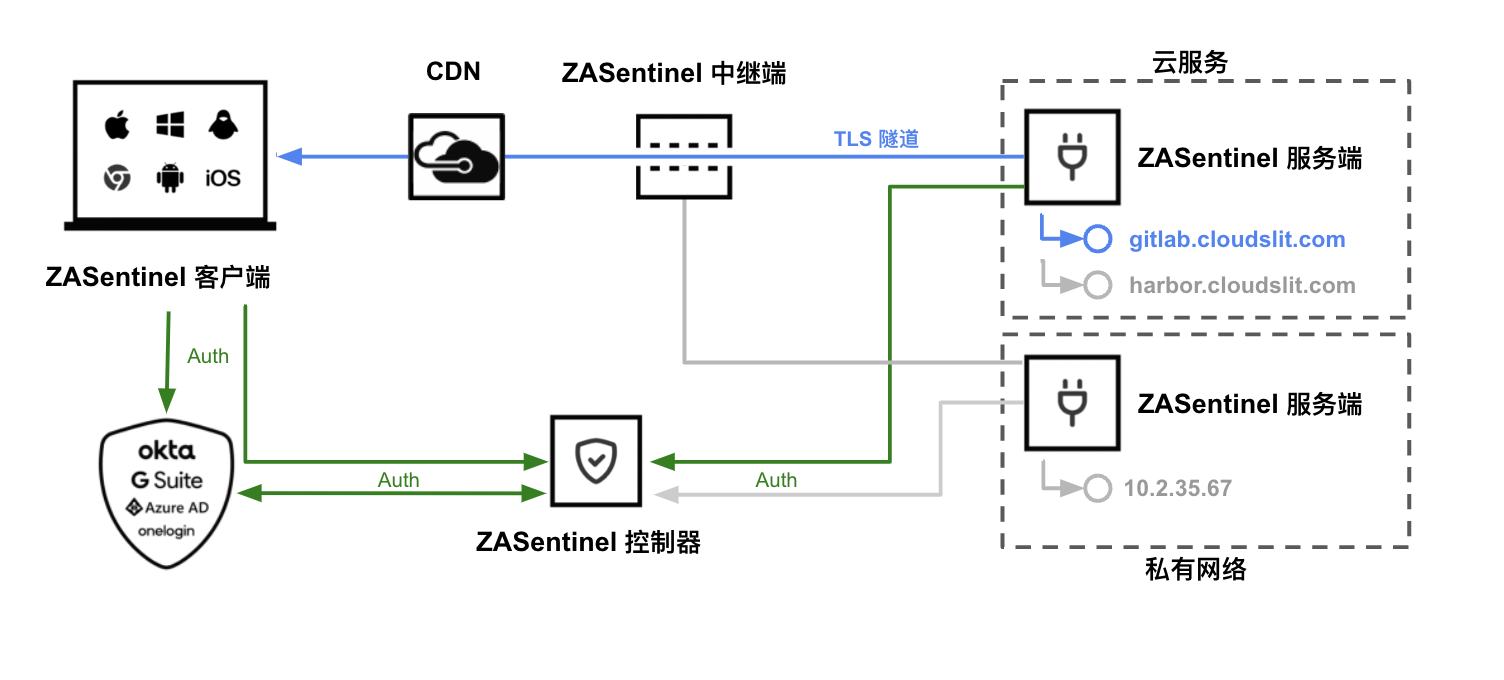
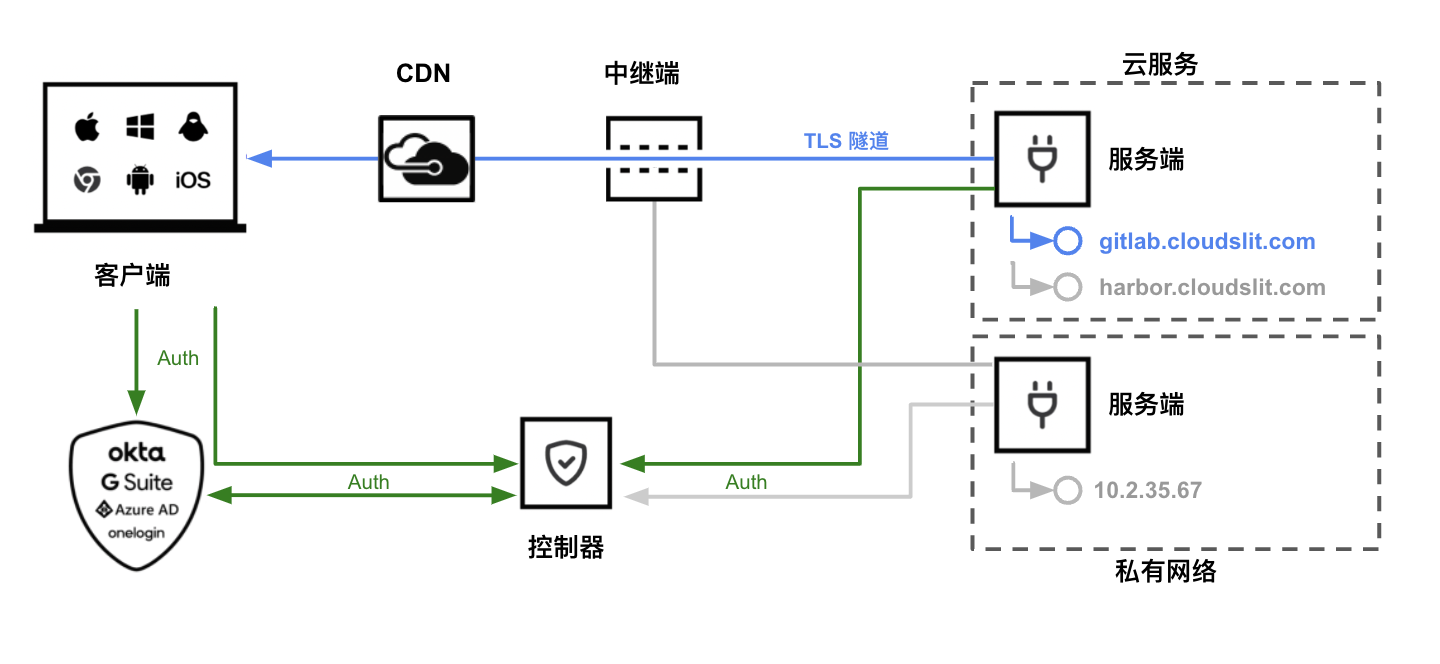
feat: zero access whitepaper

diff --git a/ZeroAccess/README.md b/ZeroAccess/README.md
@@ -1,14 +1,14 @@
-# ZASentinel white paper
+# ZeroAccess white paper
 
 
 
-## Thank you for your interest in ZASentinel
+## Thank you for your interest in ZeroAccess
 
-ZASentinel helps organizations improve information security by providing a better and simpler way to protect access to private network resources and applications.
+ZeroAccess helps organizations improve information security by providing a better and simpler way to protect access to private network resources and applications.
 
-The information contained in this document is intended to provide customers and potential customers with transparency and confidence about the security situation, practices and processes of ZASentinel. Although this document represents the security of ZASentinel when it was last updated, ensuring information security is a process of continuous improvement, and we will not stop the evaluation and support.
+The information contained in this document is intended to provide customers and potential customers with transparency and confidence about the security situation, practices and processes of ZeroAccess. Although this document represents the security of ZeroAccess when it was last updated, ensuring information security is a process of continuous improvement, and we will not stop the evaluation and support.
 
-This document is divided into two main parts. The first part describes the security architecture of ZASentinel from the perspective of products, and the second part describes the general information security practices of ZASentinel.
+This document is divided into two main parts. The first part describes the security architecture of ZeroAccess from the perspective of products, and the second part describes the general information security practices of ZeroAccess.
 
 ## Product safety
 
@@ -16,28 +16,28 @@ This document is divided into two main parts. The first part describes the secur
 
 #### Overview of Methods
 
-ZASentinel was originally designed to provide a safe solution for modern "working anywhere" employees. Modern labor force is increasingly dispersed:
+ZeroAccess was originally designed to provide a safe solution for modern "working anywhere" employees. Modern labor force is increasingly dispersed:
 
 - More and more users work at home and in remote locations such as public places;
 - User devices are scattered among desktop and mobile devices, devices for job posting and personal devices;
 - The application is being migrated from inside to the cloud or provided by a third-party SaaS provider;
 - Networks are increasingly cloud-based or managed by third parties.
 
-Therefore, the traditional fixed boundary method based on IP address can't meet today's security or availability requirements. ZASentinel's answer is a method based on the concept of zero trust access, which we call identity first network.
+Therefore, the traditional fixed boundary method based on IP address can't meet today's security or availability requirements. ZeroAccess's answer is a method based on the concept of zero trust access, which we call identity first network.
 
 #### Identity first network
 
-The premise behind ZASentinel's identity first network model is to rethink the basic assumptions of the network to meet the needs of modern labor force. The dispersion and abstraction of users, devices, applications and networks (for example, through infrastructure such as Terraform, that is, code framework) means that different methods are needed.
+The premise behind ZeroAccess's identity first network model is to rethink the basic assumptions of the network to meet the needs of modern labor force. The dispersion and abstraction of users, devices, applications and networks (for example, through infrastructure such as Terraform, that is, code framework) means that different methods are needed.
 
 Our identity-first approach starts with asking a simple question: Should network requests be allowed to leave the device? And if so, whose identity should it be attached to? Because there is no clearly authorized identity, the network connection is never allowed to enter your network, so there is no longer the question of who the network connection belongs to and why it is authorized.
 
 This connection between network request initiation and identity makes it very easy to understand the activities inside the network. Gone are the days of whitelisting IP addresses,
 
-Maintain complex subnet assignments and VLAN segments, or manually piece together network events across physical networks. With ZASentinel, you can provide users with the flexibility they need to work anywhere, while maintaining confidence that every network connection is authorized and audited according to the user's identity.
+Maintain complex subnet assignments and VLAN segments, or manually piece together network events across physical networks. With ZeroAccess, you can provide users with the flexibility they need to work anywhere, while maintaining confidence that every network connection is authorized and audited according to the user's identity.
 
 #### Zero Trust Access (ZTA)
 
-ZASentinel's architecture is designed according to ZTA's main philosophy:
+ZeroAccess's architecture is designed according to ZTA's main philosophy:
 
 - Every request for private resources should be authenticated and authorized based on real-time context information, such as user identity, device status and other attributes such as time and location.
 - Users should only have access to the minimum necessary resources (principle of least privilege).
@@ -45,17 +45,17 @@ ZASentinel's architecture is designed according to ZTA's main philosophy:
 
 Generally speaking, these principles are embodied in our products in the following ways:
 
-- No ZASentinel component can independently decide to allow traffic to flow to secure resources on remote networks. And user data flow authorization is always confirmed by running multiple checks by multiple components. In addition, the user data flow and the user authentication flow are handled by separate components and require separate authentication checks.
+- No ZeroAccess component can independently decide to allow traffic to flow to secure resources on remote networks. And user data flow authorization is always confirmed by running multiple checks by multiple components. In addition, the user data flow and the user authentication flow are handled by separate components and require separate authentication checks.
 - We entrust user authentication to a third-party authentication provider, which creates a separation of concerns and provides an additional layer of security.
 - We support extensive logging, provide enhanced visibility, and help administrators monitor, troubleshoot, and investigate the activities of the entire network and terminals, including unauthorized activities, as well as those of individuals who are authorized to access resources but may exceed their business authority.
-- User data streams from the client to the server are encrypted end-to-end. Even though they can pass through relays (components residing in the infrastructure controlled by ZASentinel), ZASentinel cannot decrypt such data. (Encrypted transmission will never have intermediate termination/recovery on the relay. )
+- User data streams from the client to the server are encrypted end-to-end. Even though they can pass through relays (components residing in the infrastructure controlled by ZeroAccess), ZeroAccess cannot decrypt such data. (Encrypted transmission will never have intermediate termination/recovery on the relay. )
 - Our client-relay-server, all components communicate with each other by upgrading to websocket protocol, which better supports the transfer of custom parameters and facilitates the verification of data security and legality.
-- Our relay is mounted under the CDN network, which can effectively prevent DDOS attacks, and better optimize network lines to improve access speed. The network CDN supports Websocket protocol and seamlessly integrates with ZASentinel network.
+- Our relay is mounted under the CDN network, which can effectively prevent DDOS attacks, and better optimize network lines to improve access speed. The network CDN supports Websocket protocol and seamlessly integrates with ZeroAccess network.
 - Our client application is designed to always run in the background.
 
 From the customer's point of view, our product architecture provides additional security advantages in the following aspects:
 
-- Hide the network -ZASentinel will not publicly expose the access point to your network to promote secure remote access to resources inside the network. This means that, if necessary, the customer network can remain invisible to the public Internet, and it will not be explored by potential attackers.
+- Hide the network -ZeroAccess will not publicly expose the access point to your network to promote secure remote access to resources inside the network. This means that, if necessary, the customer network can remain invisible to the public Internet, and it will not be explored by potential attackers.
 - Support granular access control at port level -Compared with VPN that provides access to the whole network, this helps to reduce the explosion radius of intrusion.
 - Centralized access management for all private resources  -This helps IT team to audit and maintain access list to cope with personnel changes.
 - Record all network activities centrally -Identity index log and analysis can provide insight into who is doing what in the whole enterprise network.
@@ -65,18 +65,18 @@ From the customer's point of view, our product architecture provides additional 
 
 #### Architecture & Component Overview
 
-This section provides a high-level overview of the main components that make up the ZASentinel architecture and how they interact. The architecture of ZASentinel is in our document, and we strongly recommend that you read this article in order to have a more comprehensive understanding of the security foundation of ZASentinel.
+This section provides a high-level overview of the main components that make up the ZeroAccess architecture and how they interact. The architecture of ZeroAccess is in our document, and we strongly recommend that you read this article in order to have a more comprehensive understanding of the security foundation of ZeroAccess.
 
 ![en-1](./images/en-1.png)
 
-ZASentinel protects access to customers' remote network resources. ZASentinel consists of four main components, which together ensure that only authenticated users can access the resources they have access to. After ZASentinel is fully configured, the end result is that authorized users can connect to any resource without knowing the underlying network configuration or even which remote network the resource resides on. The four main components are:
+ZeroAccess protects access to customers' remote network resources. ZeroAccess consists of four main components, which together ensure that only authenticated users can access the resources they have access to. After ZeroAccess is fully configured, the end result is that authorized users can connect to any resource without knowing the underlying network configuration or even which remote network the resource resides on. The four main components are:
 
-- Controller-central coordination component of -ZASentinel. The controller is a multi-tenant component operated by ZASentinel. It performs a number of duties, including storing the client configuration information management console managed based on web to register and verify the server, issuing the signature authorization to the client that successfully sends the connection request, entrusting the user authentication to the identity provider, and distributing the signed access control list to the client and the server.
-- Client-A software application installed on the end user's device. For users' requests for protected resources, the client acts as a combined authentication and authorization agent through ZASentinel. Routing and authorization decisions take place at the edge of the client.
+- Controller-central coordination component of -ZeroAccess. The controller is a multi-tenant component operated by ZeroAccess. It performs a number of duties, including storing the client configuration information management console managed based on web to register and verify the server, issuing the signature authorization to the client that successfully sends the connection request, entrusting the user authentication to the identity provider, and distributing the signed access control list to the client and the server.
+- Client-A software application installed on the end user's device. For users' requests for protected resources, the client acts as a combined authentication and authorization agent through ZeroAccess. Routing and authorization decisions take place at the edge of the client.
 - Server-A software component designed to be deployed on a device behind a remote network firewall. The server only starts the outbound connection with the controller and relay, and establishes communication with the client through these connections.
-- Relay-geographically distributed components operated by ZASentinel. The relay serves as the registration point of the server and the connection point of the client wishing to establish a connection to the server. The relay is mounted under the CDN network to resist DDOS attacks.
+- Relay-geographically distributed components operated by ZeroAccess. The relay serves as the registration point of the server and the connection point of the client wishing to establish a connection to the server. The relay is mounted under the CDN network to resist DDOS attacks.
 
-Client and server components are located on the equipment and infrastructure controlled by customers, while controller and relay components are located in the infrastructure controlled by ZASentinel.
+Client and server components are located on the equipment and infrastructure controlled by customers, while controller and relay components are located in the infrastructure controlled by ZeroAccess.
 
 The following diagram illustrates how various components exchange information in a secure way, so as to connect from the client to a specific resource on a remote network:
 
@@ -112,49 +112,49 @@ The relay is mounted on the CDN network, and the CDN supports websocket protocol
 
 #### What customer data do we process?
 
-The main types of customer data processed by ZASentinel are:
+The main types of customer data processed by ZeroAccess are:
 
-- User details (such as email addresses, names and group members, but not passwords, as ZASentinel entrusts authentication to a third-party identity provider);
+- User details (such as email addresses, names and group members, but not passwords, as ZeroAccess entrusts authentication to a third-party identity provider);
 - Infrastructure information (such as network details, resource details and access control list);
-- Logs (such as crash and error reports for diagnosis and troubleshooting). The ZASentinel component also records events that allow customers to monitor user activities (for example, user login and token requests).
+- Logs (such as crash and error reports for diagnosis and troubleshooting). The ZeroAccess component also records events that allow customers to monitor user activities (for example, user login and token requests).
 
-User network traffic destined for resources protected by ZASentinel can be transmitted through ZASentinel relay in encrypted form. This traffic carrying data is relayed on an instantaneous basis. The relay does not store traffic or any network identifiable information.
+User network traffic destined for resources protected by ZeroAccess can be transmitted through ZeroAccess relay in encrypted form. This traffic carrying data is relayed on an instantaneous basis. The relay does not store traffic or any network identifiable information.
 
-ZASentinel can also process customer data submitted by customers related to customer support requests. This may include configuration data, error logs, and other information that customers decide to provide to ZASentinel for reporting and diagnosing technical problems.
+ZeroAccess can also process customer data submitted by customers related to customer support requests. This may include configuration data, error logs, and other information that customers decide to provide to ZeroAccess for reporting and diagnosing technical problems.
 
 #### data separation
 
-Customer data is logically isolated in ZASentinel's system according to customer tenant ID.
+Customer data is logically isolated in ZeroAccess's system according to customer tenant ID.
 
 #### Data confidentiality
 
-According to our contract with customers, ZASentinel regards customer data as confidential information of customers, and the ownership of customer data is reserved by customers.
+According to our contract with customers, ZeroAccess regards customer data as confidential information of customers, and the ownership of customer data is reserved by customers.
 
 ### 1.3 Product performance and scalability
 
 Service reliability is the core aspect of information security. This section describes service reliability related to performance and scalability. For information on service reliability in terms of availability, please see the following infrastructure & physical security.
 
-We have designed our infrastructure and software to ensure that ZASentinel performs well, even when the usage of individual customers or our entire customer base increases. The main ways for us to achieve this goal include:
+We have designed our infrastructure and software to ensure that ZeroAccess performs well, even when the usage of individual customers or our entire customer base increases. The main ways for us to achieve this goal include:
 
-- Eliminate the backhaul/trombone problem-the traffic routed through ZASentinel takes a more direct route, instead of routing all traffic through a central gateway geographically far from the start and end points, thus reducing the delay of users and the bandwidth usage of organizations. ZASentinel clients automatically and intelligently connect to ZASentinel controllers and relays, which provide the best performance according to the physical location of users at that time and the resources they need to connect to.
-- Support split tunnel-Any user traffic that the organization chooses not to route through ZASentinel will completely bypass ZASentinel and be handled by user equipment independently. This reduces unnecessary traffic sent through additional hops.
-- Load balancing-Zasentinel handles multiple levels of load balancing. The controllers and relays of ZASentinel are distributed in different places and geographical areas. As part of infrastructure planning, our goal is to allocate them strategically to reduce delays and provide load balancing in areas where expected traffic loads are high. For example, in high-traffic areas, we can add additional controllers and relays, and balance the load among them. By using the same IaaS provider hosting controller and relay used by customers (for example, in Alibaba Cloud, Huawei Cloud and GCP), the delay is further reduced. On the client side, customers can install multiple servers in the same remote network, and ZASentinel will automatically handle the load balance between the servers to meet the access request of a specific network.
-- Handling extensions for customers-The traditional network access security model requires organizations to deploy and maintain their own security infrastructure, such as VPN gateways. Expanding the scale will increase the management cost disproportionately and occupy the resources that can be used for other plans. ZASentinel alleviates IT departments' concerns about expansion.
-- Distributed authorization processing-the authorization processing workload is distributed, such as at the ZASentinel client level, which helps to improve the overall performance, instead of being concentrated in one place.
+- Eliminate the backhaul/trombone problem-the traffic routed through ZeroAccess takes a more direct route, instead of routing all traffic through a central gateway geographically far from the start and end points, thus reducing the delay of users and the bandwidth usage of organizations. ZeroAccess clients automatically and intelligently connect to ZeroAccess controllers and relays, which provide the best performance according to the physical location of users at that time and the resources they need to connect to.
+- Support split tunnel-Any user traffic that the organization chooses not to route through ZeroAccess will completely bypass ZeroAccess and be handled by user equipment independently. This reduces unnecessary traffic sent through additional hops.
+- Load balancing-ZeroAccess handles multiple levels of load balancing. The controllers and relays of ZeroAccess are distributed in different places and geographical areas. As part of infrastructure planning, our goal is to allocate them strategically to reduce delays and provide load balancing in areas where expected traffic loads are high. For example, in high-traffic areas, we can add additional controllers and relays, and balance the load among them. By using the same IaaS provider hosting controller and relay used by customers (for example, in Alibaba Cloud, Huawei Cloud and GCP), the delay is further reduced. On the client side, customers can install multiple servers in the same remote network, and ZeroAccess will automatically handle the load balance between the servers to meet the access request of a specific network.
+- Handling extensions for customers-The traditional network access security model requires organizations to deploy and maintain their own security infrastructure, such as VPN gateways. Expanding the scale will increase the management cost disproportionately and occupy the resources that can be used for other plans. ZeroAccess alleviates IT departments' concerns about expansion.
+- Distributed authorization processing-the authorization processing workload is distributed, such as at the ZeroAccess client level, which helps to improve the overall performance, instead of being concentrated in one place.
 
 ## Information security plan
 
 ### 2.1 Overview
 
-This section contains a summary of ZASentinel's information security plan. ZASentinel keeps a set of written information security plans, policies and procedures. These plans, policies and procedures are reviewed at least once a year and supplemented by regular risk reviews, which will be incorporated into the continuous development of our information security plan.
+This section contains a summary of ZeroAccess's information security plan. ZeroAccess keeps a set of written information security plans, policies and procedures. These plans, policies and procedures are reviewed at least once a year and supplemented by regular risk reviews, which will be incorporated into the continuous development of our information security plan.
 
 ### 2.2 Management and organizational security
 
 #### Governance & Responsibility
 
-The chief technology officer of ZASentinel is mainly responsible for ZASentinel's information security plan. ZASentinel also has an interdisciplinary security team, which is responsible for implementing, reviewing and maintaining its information security plan. Its members include senior managers.
+The chief technology officer of ZeroAccess is mainly responsible for ZeroAccess's information security plan. ZeroAccess also has an interdisciplinary security team, which is responsible for implementing, reviewing and maintaining its information security plan. Its members include senior managers.
 
-However, as a safety project, ZASentinel believes that safety is a universal problem, so it is the common responsibility of our whole organization. For example, all our engineers are required to regard safety as a basic part of their work, and they will not simply delegate all responsibilities to other colleagues who are more concerned about safety.
+However, as a safety project, ZeroAccess believes that safety is a universal problem, so it is the common responsibility of our whole organization. For example, all our engineers are required to regard safety as a basic part of their work, and they will not simply delegate all responsibilities to other colleagues who are more concerned about safety.
 
 ### 2.3 Application Security
 
@@ -164,7 +164,7 @@ However, as a safety project, ZASentinel believes that safety is a universal pro
 
 We provide users with access to the system according to the user role and the principle of least privilege.
 
-Use ZASentinel to protect access to private network resources in production and other environments. Authentication is performed by our identity provider's single sign-on system, and multi-factor authentication is enabled. With ZASentinel, we can also finely control user access rights at the resource level (instead of the network level) according to the principle of minimum rights, and apply different security policies according to the authentication of users, devices and the context requesting access.
+Use ZeroAccess to protect access to private network resources in production and other environments. Authentication is performed by our identity provider's single sign-on system, and multi-factor authentication is enabled. With ZeroAccess, we can also finely control user access rights at the resource level (instead of the network level) according to the principle of minimum rights, and apply different security policies according to the authentication of users, devices and the context requesting access.
 
 Enterprise applications use SSO and MFA for authentication as much as possible, and enforce minimum password complexity requirements.
 
@@ -172,13 +172,13 @@ We also automate the deployment process of the production environment, which mea
 
 ##### Access monitoring
 
-We use ZASentinel and other log systems to monitor access to various systems and all aspects of ZASentinel infrastructure.
+We use ZeroAccess and other log systems to monitor access to various systems and all aspects of ZeroAccess infrastructure.
 
 ##### CDN network
 
 CDN network can effectively resist DDOS attacks and optimize network access lines.
 
-The network CDN supports Websocket protocol and seamlessly integrates with ZASentinel network.
+The network CDN supports Websocket protocol and seamlessly integrates with ZeroAccess network.
 
 ##### Data encryption
 
@@ -188,27 +188,27 @@ During transmission, client application communication is protected by TLS/SSL (H
 
 In static state, customer data is stored in the database managed by the platform, which is encrypted by AES-256 or better standard and uses symmetric key. The data key itself is encrypted using the master key stored in the secure keystore, and is changed regularly.
 
-We do not use any custom or proprietary encryption framework or implementation. Please note that ZASentinel does not store any customer passwords.
+We do not use any custom or proprietary encryption framework or implementation. Please note that ZeroAccess does not store any customer passwords.
 
 #### Software Development Methodology & Testing
 
 ##### Software development
 
-All written software codes have to be reviewed by the second person's code. In addition, ZASentinel also performs internal and third-party security tests, as described below.
+All written software codes have to be reviewed by the second person's code. In addition, ZeroAccess also performs internal and third-party security tests, as described below.
 
 Developers often have no access to production systems or data. Customer data is not used for testing.
 
-We usually inform customers of major updates of downloadable software components. Minor updates, such as adjustments to the user interface, will be released regularly without explicit notice. When the latest stable version of ZASentinel software is available, we recommend that customers upgrade to this version.
+We usually inform customers of major updates of downloadable software components. Minor updates, such as adjustments to the user interface, will be released regularly without explicit notice. When the latest stable version of ZeroAccess software is available, we recommend that customers upgrade to this version.
 
 ##### Internal security test
 
-ZASentinel uses various tools to statically analyze the code and report problems-both our proprietary code and vulnerabilities in third-party libraries. According to our vulnerability management policy, patch the detected vulnerabilities in time.
+ZeroAccess uses various tools to statically analyze the code and report problems-both our proprietary code and vulnerabilities in third-party libraries. According to our vulnerability management policy, patch the detected vulnerabilities in time.
 
 ##### Third-party security testing
 
-ZASentinel will cooperate with third-party organizations to regularly conduct security tests on its applications. Testing activities extend from penetration testing to application security assurance and product analysis, including:
+ZeroAccess will cooperate with third-party organizations to regularly conduct security tests on its applications. Testing activities extend from penetration testing to application security assurance and product analysis, including:
 
-- Analyze ZASentinel component by component in a "white box" environment
+- Analyze ZeroAccess component by component in a "white box" environment
 - Reverse engineering, runtime and static analysis of each component to ensure that the engineering design conforms to the best practice safety guidelines;
 - Perform automated stress testing, manual vulnerability discovery, and runtime and source code review
 - Conduct threat modeling.
@@ -244,6 +244,6 @@ Our production network is divided into different areas according to the security
 When our services need to access mission-critical network resources, service availability is crucial. We ensure very high service availability by:
 
 - Use a world-class infrastructure provider to host our core components.
-- Using multiple geographically separated data centers-Zasentinel's infrastructure is hosted in multiple physically separated cloud platform data centers to achieve redundancy. This helps to balance the load and reduces the risk of natural disasters in the environment and other specific locations.
+- Using multiple geographically separated data centers-ZeroAccess's infrastructure is hosted in multiple physically separated cloud platform data centers to achieve redundancy. This helps to balance the load and reduces the risk of natural disasters in the environment and other specific locations.
 - Implement fault-tolerant, redundant infrastructure-Our services are provided by multiple data centers, which reflect each other's capabilities. If one data center has an availability problem, other data centers will automatically bear the load.
 - Provide the ability to resist DDOS attacks-We have implemented certain measures to reduce the risk of DDOS attacks.
